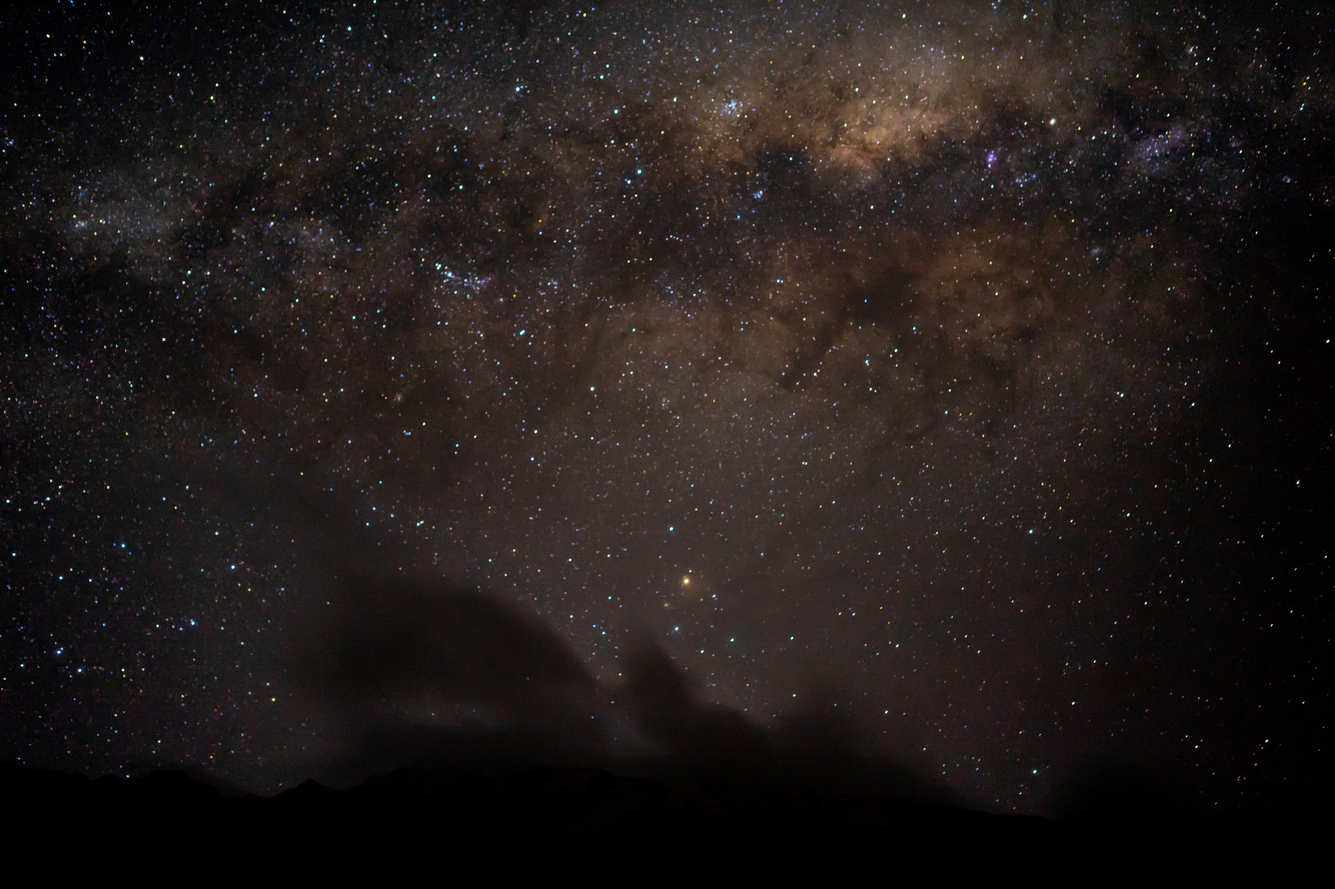
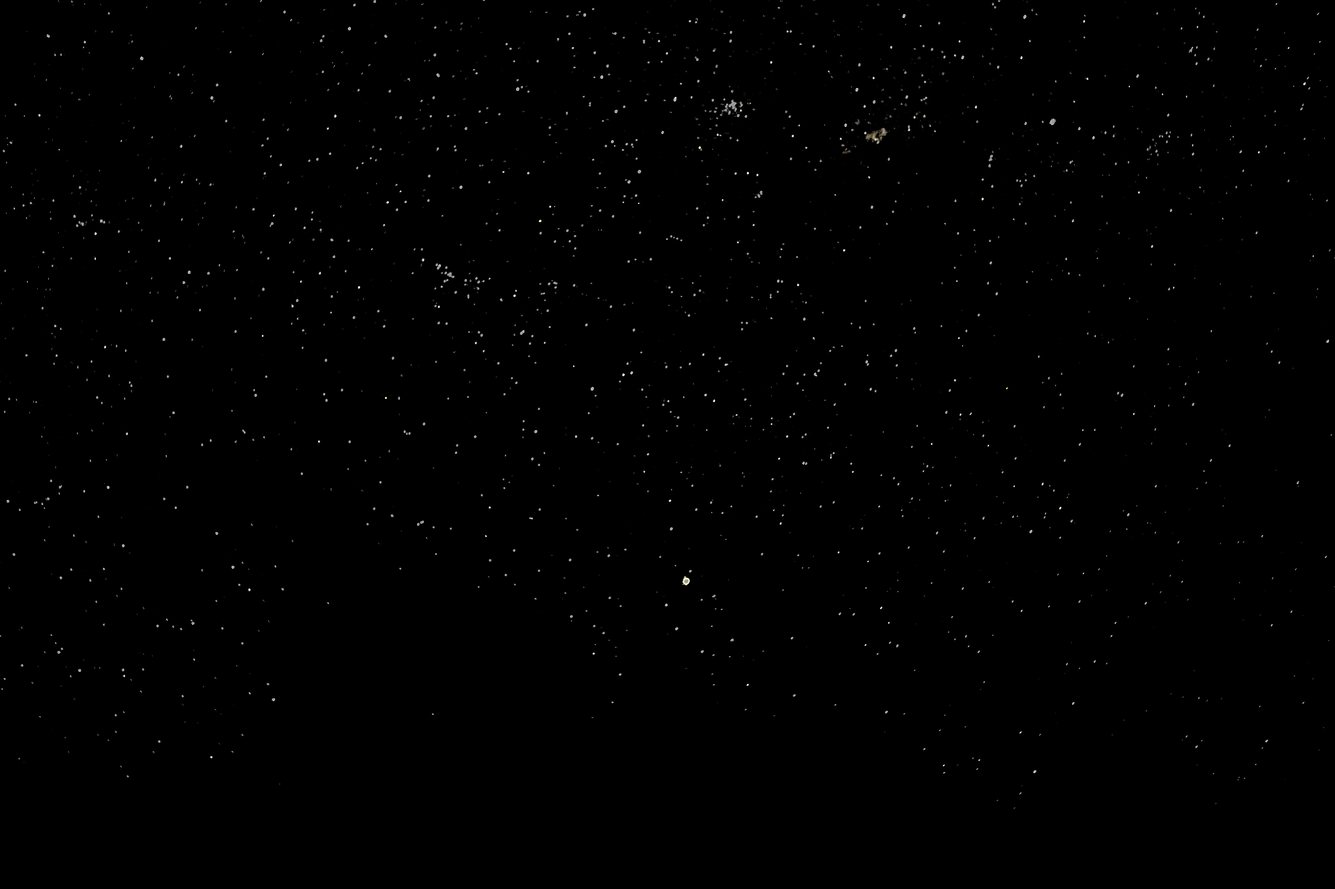
changed opacity of background image

diff --git a/index.html b/index.html
@@ -78,19 +78,20 @@
           <div class="about-style">
             <h2>Hello,</h2>
             <p class="statement">
-              I'm a maker with unquenchable passion in web development and
-              design.
+              I'm a front-end developer with unquenchable passion in resolving
+              design problems, building smart user interfaces, developing rich
+              web applications and seamless web experiences.❤
             </p>
             <p class="about-me">
-              I use HTML, CSS and JavaScript. Though constantly changing, my
-              focus right now is React.js, Node.js, Express, Gatsby and Next.js.
-              I am passionate about technology and all of the opportunities it
-              creates for communication and innovation. I value creative and
-              collaborative experiences, and would love to bring my enthusiasm
-              to your organization!
-              <br />
-              When I'm offline, you can find me reading a book, rowing in a lake
-              nearby, or tending to my many plants.
+              <p>I use HTML, CSS and JavaScript. Though constantly changing, my
+              focus right now is React.js, Node.js, Express, Gatsby and
+              Next.js🚀. I am passionate about technology and all of the
+              opportunities it creates for communication and innovation 🤜🤛. I
+              value creative and collaborative experiences, and would love to
+              bring my enthusiasm to your organization!</p>
+              
+             <p>When I'm offline, you can find me reading a book 📖, rowing in a
+              lake nearby🚣♀, or tending to my many plants🪴.</p> 
             </p>
           </div>
         </div>
@@ -206,8 +207,10 @@
               /></a>
               <p class="project-language">HTML, CSS</p>
               <p class="project-description">
-                An interactive React app that lets users create “sticky notes”
-                plus edit, delete, and search their to-do list items.
+                This is a note-taking application that I built in React, using
+                CodeSandbox as my development environment. It has write, edit,
+                delete, and save functionality -- the notes are saved to local
+                storage.
               </p>
               <a
                 class="project-link"
@@ -229,7 +232,7 @@
               <p class="project-description">
                 Guess the word by entering one letter at a time. If you guess
                 correctly before using up your allotted guesses, you are a
-                winner!
+                winner! This game is written entirely in JavaScript.
               </p>
               <a
                 class="project-link"
@@ -249,9 +252,10 @@
               /></a>
               <p class="project-language">HTML, CSS</p>
               <p class="project-description">
-                Unplugged Retreat is a responsive website based on a design
-                comp. Using media queries, responsive typography, and flexbox,
-                the website has a clean design for mobile, tablet, and web.
+                This is a fully responsive website for a company work retreat.
+                It is hand-coded in 100% custom HTML and CSS. Using media
+                queries, responsive typography, and flexbox, the website has a
+                clean design for mobile, tablet, and web.
               </p>
               <a
                 class="project-link"

diff --git a/css/main.css b/css/main.css
@@ -12,7 +12,7 @@
    ========================================================================== */
 
 html {
-  color: black;
+  color: white;
   font-size: 1em;
   line-height: 1.4;
 }
@@ -99,6 +99,10 @@ body {
   font-family: Raleway, sans-serif;
   font-size: 1em;
   text-align: center;
+  background-image: url("../img/bg-stars.jpg");
+  background-repeat: no-repeat;
+  background-size: cover;
+  background-attachment: fixed;
 }
 
 ul,
@@ -110,7 +114,7 @@ ol {
 
 a {
   text-decoration: none;
-  color: black;
+  color: white;
 }
 
 h2 {
